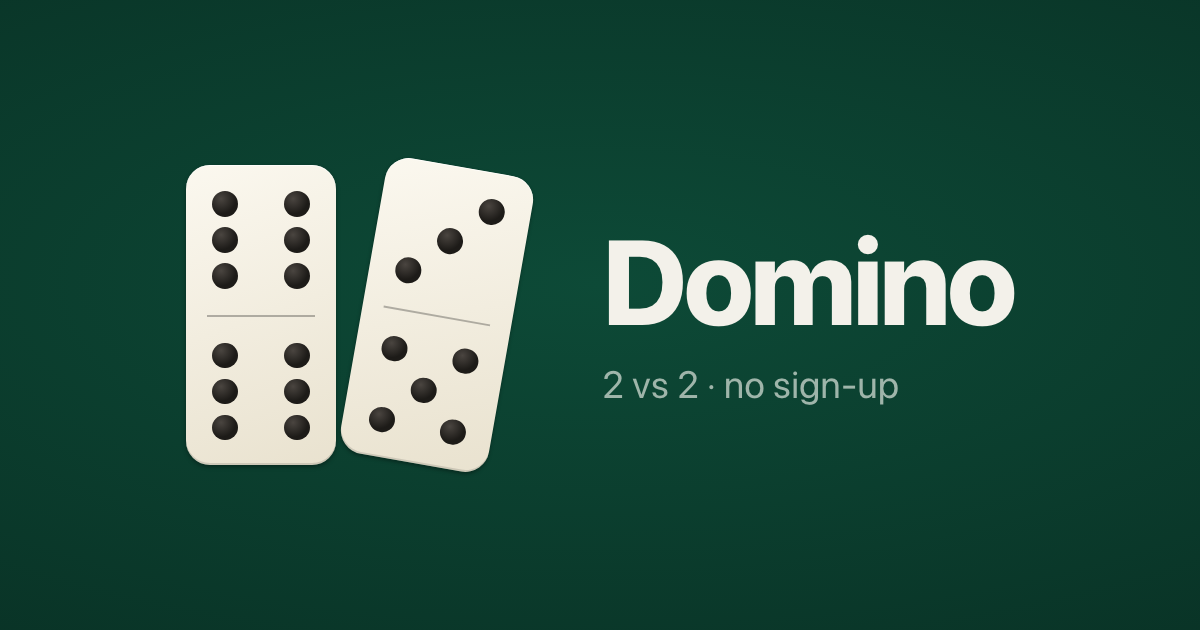
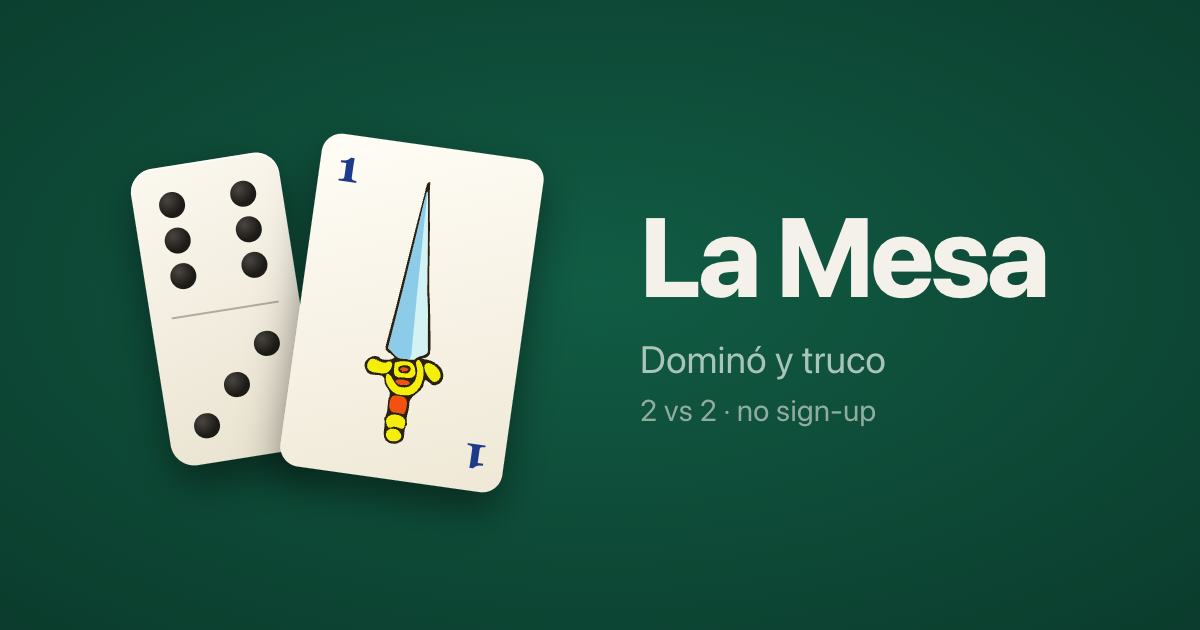
Add the combined share image and document both games

Changed region(s): [[0.0925, 0.2111, 0.4625, 0.7841], [0.4933, 0.3317, 0.8942, 0.6937]]

diff --git a/README.md b/README.md
@@ -1,26 +1,29 @@
 <img src="assets/icon.svg" width="64" height="64" alt="">
 
-# Domino
+# La Mesa
 
-Mobile-first, four-player partner dominoes (2 vs 2) you play in the browser. There's no login: create a match, share the `/play/<match-id>` link, and fill any empty seats with bots.
+Mobile-first, four-player games (2 vs 2) you play in the browser: partner dominoes and Venezuelan truco with vira, perico and perica. There's no login: create a match, pick the game in the lobby, share the `/play/<match-id>` link, and fill any empty seats with bots.
 
 Created in [T3 Code](https://t3.codes).
 
 ## Features
 
+- **Two games, one link.** Anyone in the lobby can switch between dominoes and truco, and everyone there sees the change. The target options follow the game. Once the game starts it stays until you go back to the lobby.
 - **No accounts.** Each browser gets a random token in `localStorage`, and your name is saved there for future matches.
 - **Player photos.** Take a picture or choose a file on the home page or in the lobby and it becomes your avatar. A picture taken here never reaches the device's gallery. It is saved only in your browser's `localStorage`; the server passes it to the others in the match and never stores it.
-- **Shareable matches.** A match lives at `/play/<id>`. The invite button uses the native share sheet when the browser has one, and links unfurl with a preview image in WhatsApp and other chat apps.
-- **Bots.** Fill empty seats from the lobby with Venezuelan memes, drawn at random each time. Mid-game, a spectator can take over a bot's seat and hand, and a player who disconnected can be replaced by a bot so the game keeps going.
+- **Shareable matches.** A match lives at `/play/<id>`. The invite button uses the native share sheet when the browser has one, and links unfurl with a preview image in WhatsApp and other chat apps. The preview is the same for both games: chat apps only see the static page, and the game can still change until the match starts. The share sheet's text names the current game.
+- **Bots.** Fill empty seats from the lobby with Venezuelan memes, drawn at random each time. Mid-game, a spectator can take over a bot's seat and hand, and a player who disconnected can be replaced by a bot so the game keeps going. Bots only see their own tiles or cards and the table.
 - **Spectators.** Anyone who opens the link after the seats are taken watches the game.
 - **Reconnects.** Reloading or briefly losing the connection puts you back in your seat with your hand. Sockets are replaced before the host's time limit ends them, so games and voice calls carry on without a drop. The client notices dead connections within seconds, reconnects with backoff, and retries right away when the network or the tab comes back. If you were swapped for a bot while away, rejoining gives you your seat back.
 - **Voice chat.** Everyone in a match (players and spectators) can join the room's voice chat with the mic button, from the lobby or the table, mute themselves, or hang up. Audio goes peer to peer over WebRTC; the server only relays the connection setup. Seated players in voice get a mic badge on their avatar and a green ring while they talk. Without a microphone (blocked, missing, or a plain-`http` LAN page) you join as a listener.
-- **Reactions and sound.** Emoji reactions shown at the table (👏 😂 😮 😡 🔥 👋), sound effects, and a pass animation.
-- **English and Spanish.** The language follows the browser, and the EN/ES button switches it (saved in `localStorage`).
+- **Reactions and sound.** Emoji reactions shown at the table (👏 😂 😮 😡 🔥 👋), sound effects, and a pass animation. When players send the same emoji within 3 seconds, a big one pops over the table.
+- **Your hand, your order.** Drag a tile or card to a new slot in your hand at any point.
+- **English and Spanish.** The language follows the browser, and the EN/ES button switches it (saved in `localStorage`). Truco's calls (¡Truco!, Quiero…) stay in Spanish in both.
+- **Traditional suits.** Truco's oros, copas, espadas and bastos use public-domain drawings of the Spanish deck by [Florixc on Wikimedia Commons](https://commons.wikimedia.org/wiki/File:Seme_denari_carte_spagnole.svg), lightly cleaned up in `public/suits/`.
 - **Installable.** Ships a web app manifest, so it can be added to the home screen.
 - **Admin page.** `/admin`, behind one shared password, shows who is in voice, TURN usage as reported by Metered, voice joins, game socket traffic, and the state of Redis and TURN.
 
-### Rules
+### Domino rules
 
 - Double-six set with 7 tiles per player and no boneyard. Seats 0 and 2 play against seats 1 and 3, and turns go 0 → 1 → 2 → 3.
 - In the first round, whoever holds the double six must open with it. After that, the opener rotates: the player to the right of the last round's opener opens with any tile, whoever won.
@@ -30,11 +33,59 @@ Created in [T3 Code](https://t3.codes).
 - **Blocked game:** the team with fewer pips wins and scores the losing team's pips. A tie scores nothing.
 - The match ends when a team reaches the target score, which you set in the lobby to 50, 75 or 100.
 
+### Truco rules
+
+Truco has many house rules, and written sources disagree on some details. This is what the game implements.
+
+**Deal.** A 40-card Spanish deck (no 8s or 9s). Everyone gets 3 cards and one more is turned up as the **vira**. Seats 0 and 2 play against seats 1 and 3, and turns go 0 → 1 → 2 → 3 (counter-clockwise). The **mano** leads the first trick, wins ties, and moves one seat each hand.
+
+**Cards, best to worst:**
+
+1. **Perico:** the 11 of the vira's suit
+2. **Perica:** the 10 of the vira's suit
+3. 1 of espadas, 1 of bastos, 7 of espadas, 7 of oros
+4. The 3s, the 2s, then the 1s of copas and oros
+5. The 12s, 11s and 10s, then the 7s of copas and bastos
+6. The 6s, 5s and 4s
+
+If the vira is itself the 11 or the 10, the **12 of that suit** takes its place as perico or perica.
+
+**Tricks.** The team that takes two of three tricks wins the hand. A tied trick (*parda*) is led again by whoever led it:
+
+- First trick tied: the second trick decides.
+- One team won the first trick and a later trick ties: that team wins.
+- All three tied: the mano's team wins.
+
+**Truco.** A hand is worth 1. On your turn you can raise it, and the other team answers *quiero*, *no quiero*, or raises straight back. After a raise is accepted, only the team that accepted it can raise next.
+
+| Call | If accepted | If refused |
+| --- | --- | --- |
+| Truco | 3 | 1 |
+| Retruco | 6 | 3 |
+| Vale nueve | 9 | 6 |
+| Vale juego | the match | 9 |
+
+On your turn you can also go **al mazo**: your team folds and the other team scores the hand's current value.
+
+**Envido.** Called before your first card, on your turn or in reply to a truco (the truco then waits for the envido to be settled). It's worth 2. The other team can accept, refuse, or raise with *y envido* (+2), *cinco más* (+5) or *falta envido* (what the leading team needs to reach the target). A first envido refused pays 1, and a refused raise pays what had been bet before it.
+
+Hand values: perico 30 and perica 29, plus the best other card. Otherwise, two cards of a suit are 20 plus their numbers (10, 11 and 12 count 0), or the highest single card if no suit repeats. The highest value on either team wins, and ties go to the seat closest to the mano.
+
+**Flor.** Three cards of a suit, or the perico or perica with two cards of a suit. You sing it before your first card, on your turn or when answering a bet, and it's worth 3. Singing a flor cancels the envido. If you play your first card without singing it, the flor is lost and the table laughs at you. If both teams sing, the higher flor scores (20 plus the numbers, or the piece plus the numbers).
+
+**Flor reservada.** Perico and perica in the same hand is worth 5 and doesn't need to be sung.
+
+**Scoring.** Points are added when the hand ends: flor, then envido, then truco. Nothing more is added once a team reaches the target, which you set in the lobby to 12, 24 or 32.
+
+**Not implemented:** *con flor envido* and *contraflor* (the bets between two flores), *a ley*, *privar*, burning a card face-down, and partner signals (*señas*). A team scores one flor per hand even if both partners hold one.
+
+Rules are based on [Wikipedia ES](https://es.wikipedia.org/wiki/Truco_venezolano), [Ludoteka](https://www.ludoteka.com/games/truco-venezolano/rules) and [Conecta Games](https://conectagamesblog.wordpress.com/2015/12/18/reglas-del-truco-venezolano/).
+
 ## Stack
 
 | Layer    | Tech |
 | -------- | ---- |
-| Client   | Plain HTML, CSS and ES modules in `public/`, with no framework or build step. Tiles are drawn with DOM and CSS, and sound uses the Web Audio API. |
+| Client   | Plain HTML, CSS and ES modules in `public/`, with no framework or build step. Tiles are drawn with DOM and CSS, cards are SVG built in the browser from the suit drawings, and sound uses the Web Audio API. |
 | Server   | Node.js (≥ 18, ESM) using `node:http` and [`ws`](https://github.com/websockets/ws) for WebSockets |
 | State    | In-memory store for local dev. [Redis](https://redis.io) (`redis` v5 client) when several instances need to share matches. |
 | Hosting  | [Vercel](https://vercel.com): static files from `public/` plus one Vercel Function (`api/ws.js`) that accepts WebSocket upgrades |
@@ -50,30 +101,50 @@ api/admin.js       Vercel Function: admin data (/api/admin)
 server/
   index.js         Local entry point (HTTP + static files + WebSocket on one port)
   app.js           Shared HTTP/WebSocket server: upgrade handling, heartbeats
-  hub.js           Connects sockets to matches, fans out state, schedules bots/auto-passes
+  hub.js           Connects sockets to matches, fans out state, schedules automatic moves, relays voice signaling and photos
   store.js         MemoryStore (local) and RedisStore (shared): storage, presence, pub/sub
   usage.js         Buffers usage counters and writes them in batches
   admin.js         Password check and the report behind the admin page
-  match.js         A match as serializable state: seats, lobby, scoring, per-player views
-  game.js          Pure round logic: dealing, legal moves, playing, passing, scoring, bot AI
+  metered.js       TURN usage from Metered's API
+  match.js         A match as serializable state: game, seats, lobby, reactions, per-player views
+  games/
+    index.js       The list of games, and what a game has to provide
+    common.js      Seats and teams, shuffling, MoveError, bot pacing, the catchphrase odds
+    domino.js      Pure domino rules and bot AI, plus the `game` object
+    truco.js       Pure truco rules and bot AI, plus the `game` object
 public/
   index.html       Landing page (new match / join by code)
   play.html        Game table
   admin.html       Admin page
-  js/play.js       Client: WebSocket connection, rendering, input
+  js/play.js       Client shell: connection, lobby, seats, voice, photos, reactions, drag, result frame
+  js/domino.js     Domino table: board, hand, drop targets, how a round reads
+  js/truco.js      Truco table: vira, trick, call buttons, how a hand reads
+  js/flight.js     Throwing a tile or card from a seat to the table
   js/board.js      Lays out the line of tiles on the table
   js/tiles.js      Tile markup
-  js/fx.js         Animations and reactions
+  js/cards.js      Card markup (SVG, placing the suit drawings)
+  suits/           Traditional suit drawings (public domain)
+  sounds/          El Manguangua's catchphrase
+  js/fx.js         Win and lose animations
   js/sound.js      Sound effects
   js/voice.js      Voice chat (WebRTC mesh, signaling over the game socket)
-  js/i18n.js       UI strings (English, Spanish) and language switching
+  js/avatar.js     Player photos: camera, file picker, local storage
+  js/i18n.js       UI strings (English, Spanish), shared and per game, and language switching
   js/admin.js      Admin page: sign-in and usage
   css/style.css    Styles
-test/              Game and board layout tests
+test/              Rules of both games, match, board layout, game choice, voice relay and admin tests
 vercel.json        Rewrites /play/:id → /play.html and /admin → /admin.html
 ```
 
 ## Architecture
+
+### How a game plugs in
+
+A match's `game` field picks its rules. `Match` handles what is common (seats, bots joining, reactions, the lobby, the target) and calls the game's `game` object for the rest. The fields are listed in `server/games/index.js`: `targets`, `defaultTarget`, `newRound`, `handle`, `settle`, `pendingAuto`, `runAuto` and `roundView`.
+
+On the client, `play.js` keeps one view per game (`domino.js`, `truco.js`) and calls the current one for the table, the hand, the status line and the details of the result. `i18n.js` looks in the current game's strings before the shared ones, and CSS rules that share a name between games are scoped with `body[data-game]`.
+
+The `domino:` prefix on Redis keys and the `domino.*` browser storage keys predate truco and cover both games. Renaming them would lose live matches, the usage counters, and players' names, seats and photos. Matches saved without a `game` load as dominoes.
 
 ### Connection diagram
 
@@ -123,7 +194,7 @@ sequenceDiagram
 
   C->>H: {t: "hello", token, name}
   H->>S: setPresence + update(join)
-  C->>H: {t: "play", tile, end}
+  C->>H: {t: "play", tile, end} (or card, call, answer)
   H->>S: load match + version
   H->>H: Match.handle() applies rules
   H->>S: compare-and-set write (retry if version changed)
@@ -152,14 +223,17 @@ All messages are JSON with a `t` field. Messages are limited to 16 KB (voice sig
 
 | Client → server | Payload | When |
 | --- | --- | --- |
-| `hello` | `token`, `name`, `session?`, `inVoice?` | First message. Joins the match and takes a free seat if in the lobby. `session` determines the voice peer id. `inVoice` says a handover or reconnect is already in voice. |
+| `hello` | `token`, `name`, `session?`, `inVoice?`, `games?`, `game?` | First message. Joins the match and takes a free seat if in the lobby. `session` determines the voice peer id. `inVoice` says a handover or reconnect is already in voice. `games` says this page can draw every game; a tab from before there was a choice doesn't send it, and is asked to reload instead of receiving a truco state. `game` picks the game if the match is brand new, from a `?game=` link. |
 | `handoff` | | The client is moving to another socket and is about to close this one |
 | `rename` | `name` | Any time |
 | `sit` / `stand` | `seat` | Lobby. `sit` also lets a spectator take over a bot mid-game. |
 | `addBots` / `removeBot` | `seat` | Lobby |
-| `target` | `50 \| 75 \| 100` | Lobby |
+| `game` | `game: "domino" \| "truco"` | Lobby. Resets the target to the game's default. |
+| `target` | `50 \| 75 \| 100` or `12 \| 24 \| 32` | Lobby, from the current game's list |
 | `start` | | Lobby, once all 4 seats are filled |
-| `play` | `tile: [a, b]`, `end: "L" \| "R"` | On your turn |
+| `play` | Domino: `tile: [a, b]`, `end: "L" \| "R"`. Truco: `card: [number, suit]` | On your turn |
+| `call` | `what: "flor" \| "envido" \| "cinco" \| "falta" \| "truco" \| "mazo"` | Truco, when the `options` in your state allow it |
+| `answer` | `yes: boolean` | Truco, a bet is open against your team |
 | `next` / `rematch` / `lobby` | | After a round or match ends |
 | `botify` | `seat` | Replace a disconnected player with a bot |
 | `react` | `emoji` | Seated players (600 ms cooldown) |
